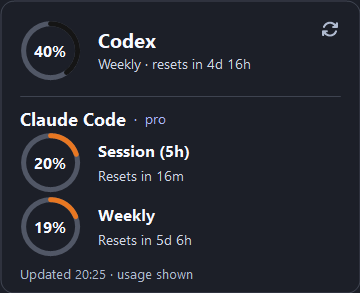
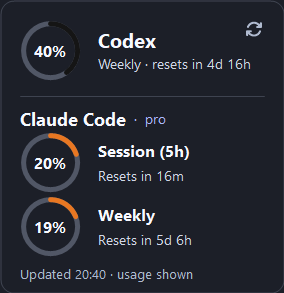
Trim circular popup unused width while preserving readable content

diff --git a/tests/Program.cs b/tests/Program.cs
@@ -8,6 +8,8 @@ using System.Windows.Forms;
 using CodexBarWin.Core.Models;
 using CodexBarWin.Tray;
 
+Application.SetHighDpiMode(HighDpiMode.SystemAware);
+Application.EnableVisualStyles();
 int count = 0;
 void Check(bool condition, string description) { if (!condition) throw new Exception(description); count++; }
 UsageSnapshot Snapshot(string id, double weekly, double session = 0, ProviderStatus status = ProviderStatus.Ok) =>
@@ -78,15 +80,13 @@ Exception? popupFailure = null;
 var ui = new Thread(() => {
     try
     {
-        Application.SetHighDpiMode(HighDpiMode.SystemAware);
-        Application.EnableVisualStyles();
         int refreshes = 0;
         using var popup = new PopupForm(() => refreshes++);
         popup.Location = new Point(-4000,-4000);
         _ = popup.Handle;
         Check(!popup.ShowInTaskbar && popup.Opacity == 1, "Popup stays opaque and off taskbar");
         popup.Render(new[] { Snapshot("codex",40), Snapshot("claude",19,20) });
-        Check(popup.Width == 360 && popup.Height < 340, $"Circular popup remains compact ({popup.Width}x{popup.Height})");
+        Check(popup.Width == 284 && popup.Height < 340, $"Circular popup remains compact ({popup.Width}x{popup.Height})");
         popup.Show();
         Application.DoEvents();
         var refresh = popup.Controls.OfType<Button>().Single();

diff --git a/source/Tray/CodexBarWin.Tray/PopupForm.cs b/source/Tray/CodexBarWin.Tray/PopupForm.cs
@@ -11,7 +11,7 @@ namespace CodexBarWin.Tray;
 
 internal sealed class PopupForm : Form
 {
-    private const int W = 360;
+    private const int W = 284;
     private readonly Action _onRefresh;
     private readonly Font _title = new("Segoe UI", 20, FontStyle.Bold, GraphicsUnit.Pixel);
     private readonly Font _header = new("Segoe UI", 18, FontStyle.Bold, GraphicsUnit.Pixel);

diff --git a/design-qa.md b/design-qa.md
@@ -5,10 +5,10 @@ final result: passed
 ## Evidence and scope
 
 - Source visual truth: `design/reference.png`, the user's supplied 1405 x 1120 screenshot.
-- Implementation: `design/implementation.png` (360 x 293 native pixels); dark variant `design/dark.png`.
+- Implementation: `design/implementation.png` (284 x 293 native pixels); dark variant `design/dark.png`.
 - Combined comparison: `design/comparison.png`. Both designs were opened together in this one comparison image before this report.
-- Normalization: remove the source's surrounding white margin using crop (39,39,1328,1059), then scale uniformly to 360 x 287. Implementation remains native 360 x 293 without stretching. The six-pixel height difference is intentional native text/padding allowance.
-- Viewport: 360px-wide native WinForms popup, SystemAware DPI, AutoScaleMode.None. CSS/deviceScaleFactor do not apply; these are direct app-rendered pixels, not browser screenshots.
+- Normalization: remove the source's surrounding white margin using crop (39,39,1328,1059), then scale uniformly to 360 x 287. Implementation remains native 284 x 293 without stretching. User subsequently requested trimming excess width: right-side whitespace is intentionally reduced by 76px, with rings, fonts and left alignment unchanged. The six-pixel height difference is native text/padding allowance.
+- Viewport: 284px-wide native WinForms popup, SystemAware DPI, AutoScaleMode.None. CSS/deviceScaleFactor do not apply; these are direct app-rendered pixels, not browser screenshots.
 - State: Codex weekly 40%, Claude session 20%, Claude weekly 19%; resets 4d16h, 16m, 5d6h. Capture time is current rather than the reference's historical 19:23. Live preview uses real provider data, not these samples.
 - Native desktop scope: existing WinForms app, not a web rebuild. No web scaffolding or browser verification is applicable.
 
@@ -26,6 +26,7 @@ No remaining actionable P0/P1/P2 findings.
 
 1. First capture: 360 x 315. [P2] Excess vertical spacing versus the normalized reference. Reduced row pitch 66 to 64, Claude heading allowance 32 to 26, top padding 22 to 20, footer allowance 36 to 28. Increased refresh icon size from 19 to 24 to better match reference visibility.
 2. Revised capture: 360 x 293. Opened `design/comparison.png` and inspected at readable scale. Earlier density issue resolved; no actionable P0/P1/P2 differences remain. Focused crops unnecessary because all rings, labels, divider, refresh icon, and footer are readable in the combined 760px-wide comparison. Dark variant opened separately for contrast and clipping inspection.
+3. User refinement: trim unnecessary width. Reduced panel to 284px; refresh and divider follow the new right edge. Recaptured sample light/dark screenshots and reopened combined comparison. Provider names, sample reset times and footer fit without clipping. 99 tests still pass. Test DPI initialization moved before all drawing so test captures use the same process-wide DPI mode as the app.
 
 ## Functional verification
 

diff --git a/README.md b/README.md
@@ -5,7 +5,7 @@
 This branch implements the supplied circular-meter reference as a native WinForms popup.
 Black Codex and orange Claude rings, a single divider, percentage centers, and an icon-only
 refresh action replace the main branch's cards and horizontal meters. Fully opaque,
-Windows-theme-aware, 360px wide. Escape dismisses; F5 or the refresh icon refreshes.
+Windows-theme-aware, 284px wide after trimming unused right-side space. Escape dismisses; F5 or the refresh icon refreshes.
 
 The branch executable opens a live preview popup with a separate single-instance guard
 and a temporary tray icon whose tooltip starts with PREVIEW. Settings changes are disabled
